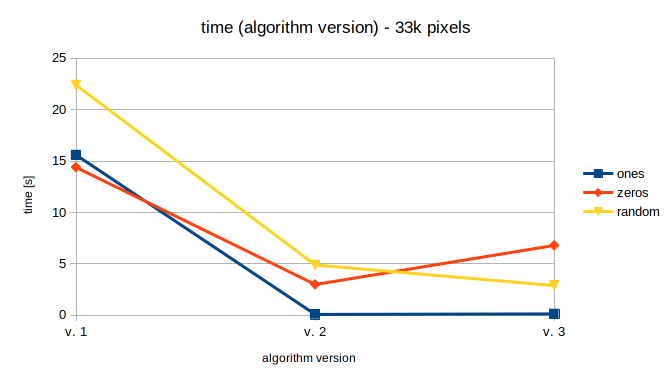
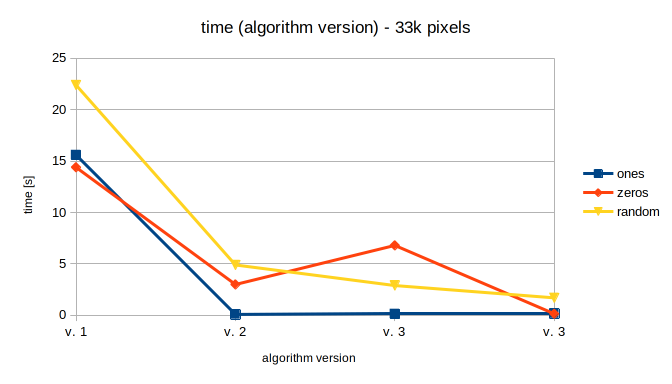
perf: algorithm v. 4

diff --git a/src/index.js b/src/index.js
@@ -134,9 +134,10 @@ exports.getNearestWhitePixel = (pixel, pixelsList) => {
  */
 exports.getListOfNearestPixels = (pixelsList) => {
     const nearestPixelsList = [];
+    const whitePixelsList = pixelsList.filter(p => p.v === 1);
 
     pixelsList.forEach(pixel => {
-        nearestPixelsList.push({origin: pixel, nearestPixel: this.getNearestWhitePixel(pixel, pixelsList)});
+        nearestPixelsList.push({ origin: pixel, nearestPixel: this.getNearestWhitePixel(pixel, whitePixelsList)});
     })
 
     return nearestPixelsList.map(v => {

diff --git a/README.md b/README.md
@@ -59,7 +59,7 @@ Things that can be done better:
 | 33124       | 0.09  | 3     | 4.9    |
 
 
-![alt text](./readme-img/performance-v2.png "algorithm version: 1")
+![alt text](./readme-img/performance-v2.png "algorithm version: 2")
 
 
 ### Algorithm version: 3 (a673708)
@@ -70,7 +70,18 @@ Things that can be done better:
 | 33124       | 0.14  | 6.8   | 2.9    |
 
 
-![alt text](./readme-img/performance-v3.png "algorithm version: 1")
+![alt text](./readme-img/performance-v3.png "algorithm version: 3")
+
+
+### Algorithm version: 4 (33a01a51e)
+| input size  | ones  | zeros | random |
+|-------------|-------|-------|--------|
+| 100         | 0.07  | 0.08  | 0.08   |
+| 10000       | 0.09  | 0.12  | 0.34   |
+| 33124       | 0.15  | 0.17  | 1.7    |
+
+
+![alt text](./readme-img/performance-v4.png "algorithm version: 4")
 
 
 ### Performance change
